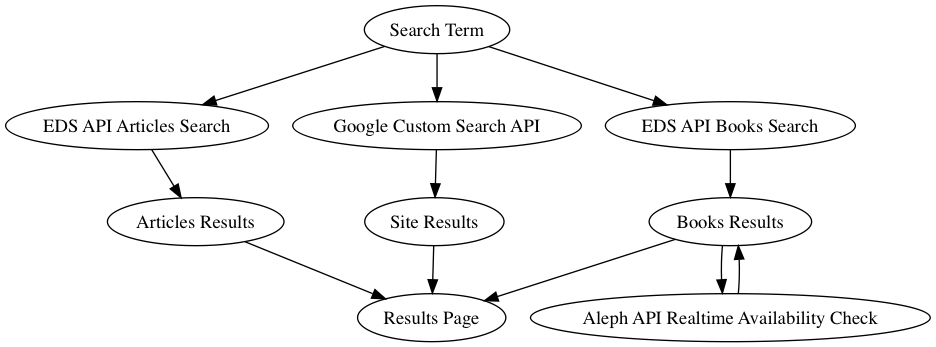
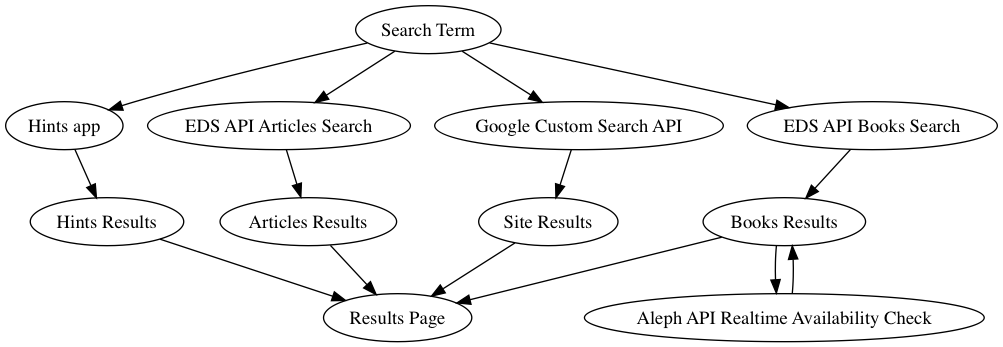
Add fingerprinting to hints system
What:
* This turns searches into their fingerprints before looking them up in
  the hints database.

Why:
* Fingerprinting lets us remove information that is usually not
  semantically distinguishing and focus on likely user intent
* This lets us use what we learned in clustering search data in
  OpenRefine to find our most common searches

How:
* Uses OpenRefine's default clustering algorithm; see
  https://github.mit.edu/pages/m31/2017/06/30/openrefine.html and
  https://github.com/OpenRefine/OpenRefine/wiki/Clustering-In-Depth
* Adds an edge case to preserve distinction among C, C++, and C#

diff --git a/test/models/hint_test.rb b/test/models/hint_test.rb
@@ -37,4 +37,136 @@ class HintTest < ActiveSupport::TestCase
     match = Hint.match(searchterm)
     assert_equal(hints(:unido), match)
   end
+
+  # --- Tests of fingerprinting ---
+  test 'fingerprinting distinguishes types of C' do
+    # We actually want C, C++, and C# to be distinguished, even though
+    # the default fingerprinting algorithm would render them all the same.
+    # These are common search terms and users will not accept an "Introduction
+    # to C" as a valid result when they are searching for an "Introduction to
+    # C++".
+    assert_not_equal(Hint.fingerprint('C'), Hint.fingerprint('C++'))
+    assert_not_equal(Hint.fingerprint('C'), Hint.fingerprint('C#'))
+    assert_not_equal(Hint.fingerprint('C++'), Hint.fingerprint('C#'))
+
+    assert_not_equal(Hint.fingerprint('Introduction to C'),
+                     Hint.fingerprint('Introduction to C++'))
+    assert_not_equal(Hint.fingerprint('Introduction to C'),
+                     Hint.fingerprint('Introduction to C#'))
+    assert_not_equal(Hint.fingerprint('Introduction to C#'),
+                     Hint.fingerprint('Introduction to C++'))
+  end
+
+  test 'distinguishing c-type languages does not preserve other features' do
+    # We're distinguishing C, C++, and C#, but we don't want to throw out all
+    # of our other fingerprinting rules to get there.
+    assert_equal(Hint.fingerprint('introduction to c++'),
+                 Hint.fingerprint('Introduction to C++'))
+
+    assert_equal(Hint.fingerprint('Introdüction to C++'),
+                 Hint.fingerprint('Introduction to C++'))
+
+    assert_equal(Hint.fingerprint(' Introduction to C++' ),
+                 Hint.fingerprint('Introduction to C++'))
+
+    assert_equal(Hint.fingerprint('C++: an introduction'),
+                 Hint.fingerprint('C++ an introduction'))
+
+    assert_equal(Hint.fingerprint('C++ C++'),
+                 Hint.fingerprint('C++'))
+  end
+
+  test 'distinguishing c-type languages does not prevent punctuation removal' do
+    # We want to distinguish C++, C#, and C, but that doesn't mean we should
+    # ignore ALL punctuation after the letter C.
+    print = Hint.fingerprint('milosevic, slobodan')
+    assert_equal(print, 'milosevic slobodan')
+  end
+
+  test 'fingerprint strips leading and trailing spaces' do
+    print = Hint.fingerprint(' bento ')
+    assert_equal(print, 'bento')
+
+    print = Hint.fingerprint('bento ')
+    assert_equal(print, 'bento')
+
+    print = Hint.fingerprint(' bento')
+    assert_equal(print, 'bento')
+  end
+
+  test 'fingerprint downcases' do
+    print = Hint.fingerprint('bento')
+    assert_equal(print, 'bento')
+
+    print = Hint.fingerprint('Bento')
+    assert_equal(print, 'bento')
+
+    print = Hint.fingerprint('BENTO')
+    assert_equal(print, 'bento')
+  end
+
+  test 'fingerprint removes punctuation' do
+    print = Hint.fingerprint('bento!')
+    assert_equal(print, 'bento')
+
+    print = Hint.fingerprint('bento,')
+    assert_equal(print, 'bento')
+
+    print = Hint.fingerprint('bento#')
+    assert_equal(print, 'bento')
+  end
+
+  test 'fingerprint removes + when not part of C++' do
+    print = Hint.fingerprint('b+ento')
+    assert_equal(print, 'bento')
+
+    print = Hint.fingerprint('bento++')
+    assert_equal(print, 'bento')
+  end
+
+  test 'fingerprint removes # when not part of C#' do
+    print = Hint.fingerprint('b#ento')
+    assert_equal(print, 'bento')
+
+    print = Hint.fingerprint('d#')
+    assert_equal(print, 'd')
+  end
+
+  test 'fingerprint removes duplicates' do
+    print = Hint.fingerprint('bento bento')
+    assert_equal(print, 'bento')
+
+    print = Hint.fingerprint('bento is bento')
+    assert_equal(print, 'bento is')
+  end
+
+  test 'fingerprint alphabetizes tokens' do
+    print = Hint.fingerprint('web of science')
+    assert_equal(print, 'of science web')
+  end
+
+  test 'fingerprint normalizes non-ascii characters' do
+    print = Hint.fingerprint('bénto')
+    assert_equal(print, 'bento')
+
+    print = Hint.fingerprint('bentö')
+    assert_equal(print, 'bento')
+  end
+
+  test 'match returns true based on fingerprint equivalence' do
+    match = Hint.match('web of science')
+    assert_equal(hints(:webofscience), match)
+
+    match = Hint.match('Web of science')
+    assert_equal(hints(:webofscience), match)
+
+    match = Hint.match('science, web of ')
+    assert_equal(hints(:webofscience), match)
+
+    match = Hint.match('WEB web web OF of of SCIENCE science science')
+    assert_equal(hints(:webofscience), match)
+
+    match = Hint.match('scíënçe!, WEB OF ')
+    assert_equal(hints(:webofscience), match)
+  end
 end

diff --git a/app/models/hint.rb b/app/models/hint.rb
@@ -1,5 +1,52 @@
+require 'stringex/core_ext'
+
 class Hint < ApplicationRecord
   def self.match(searchterm)
-    Hint.find_by(fingerprint: searchterm)
+    searchprint = fingerprint(searchterm)
+    Hint.find_by(fingerprint: searchprint)
+  end
+
+  # This implements the OpenRefine fingerprinting algorithm. See
+  # https://github.com/OpenRefine/OpenRefine/wiki/Clustering-In-Depth#fingerprint
+  def self.fingerprint(searchterm)
+    # Preprocess.
+    searchterm.strip!
+    searchterm.downcase!
+
+    depunctuate!(searchterm)
+
+    # Tokenize.
+    term_array = searchterm.split(' ')
+
+    # Remove duplicates and sort.
+    term_array.uniq!
+    term_array.sort!
+
+    # Rejoin tokens.
+    fingerprint = term_array.join(' ')
+
+    # rubocop:disable AsciiComments
+    # Normalize to ASCII (e.g. gödel and godel are liable to be intended to
+    # find the same thing). (Yes, to_ascii lacks a to_ascii! equivalent,
+    # but that's okay as this is the last line so we just need to return
+    # output.)
+    # rubocop:enable AsciiComments
+    fingerprint.to_ascii
+  end
+
+  def self.depunctuate!(searchterm)
+    # What's up with the regexp? We want to remove punctuation from
+    # the string EXCEPT where it where it is part of the term C++ or C#
+    # (as a standalone term - appearing either immediately after whitespace
+    # or at the beginning of a line). Those terms are meaningfully different
+    # from C, and our users frequently search for them. It turns out to be
+    # hard to write a single regexp that does this without affecting any
+    # other punctuation, so we pull out C++ and C#; replace all punctuation;
+    # and then put them back.
+    searchterm.gsub!(/[cC]\+{2}/, 'GROSSHACKCPLUSPLUS')
+    searchterm.gsub!(/[cC]\#/, 'GROSSHACKCSHARP')
+    searchterm.gsub!(/\p{P}|\p{S}/, '')
+    searchterm.gsub!(/GROSSHACKCPLUSPLUS/, 'c++')
+    searchterm.gsub!(/GROSSHACKCSHARP/, 'c#')
   end
 end
